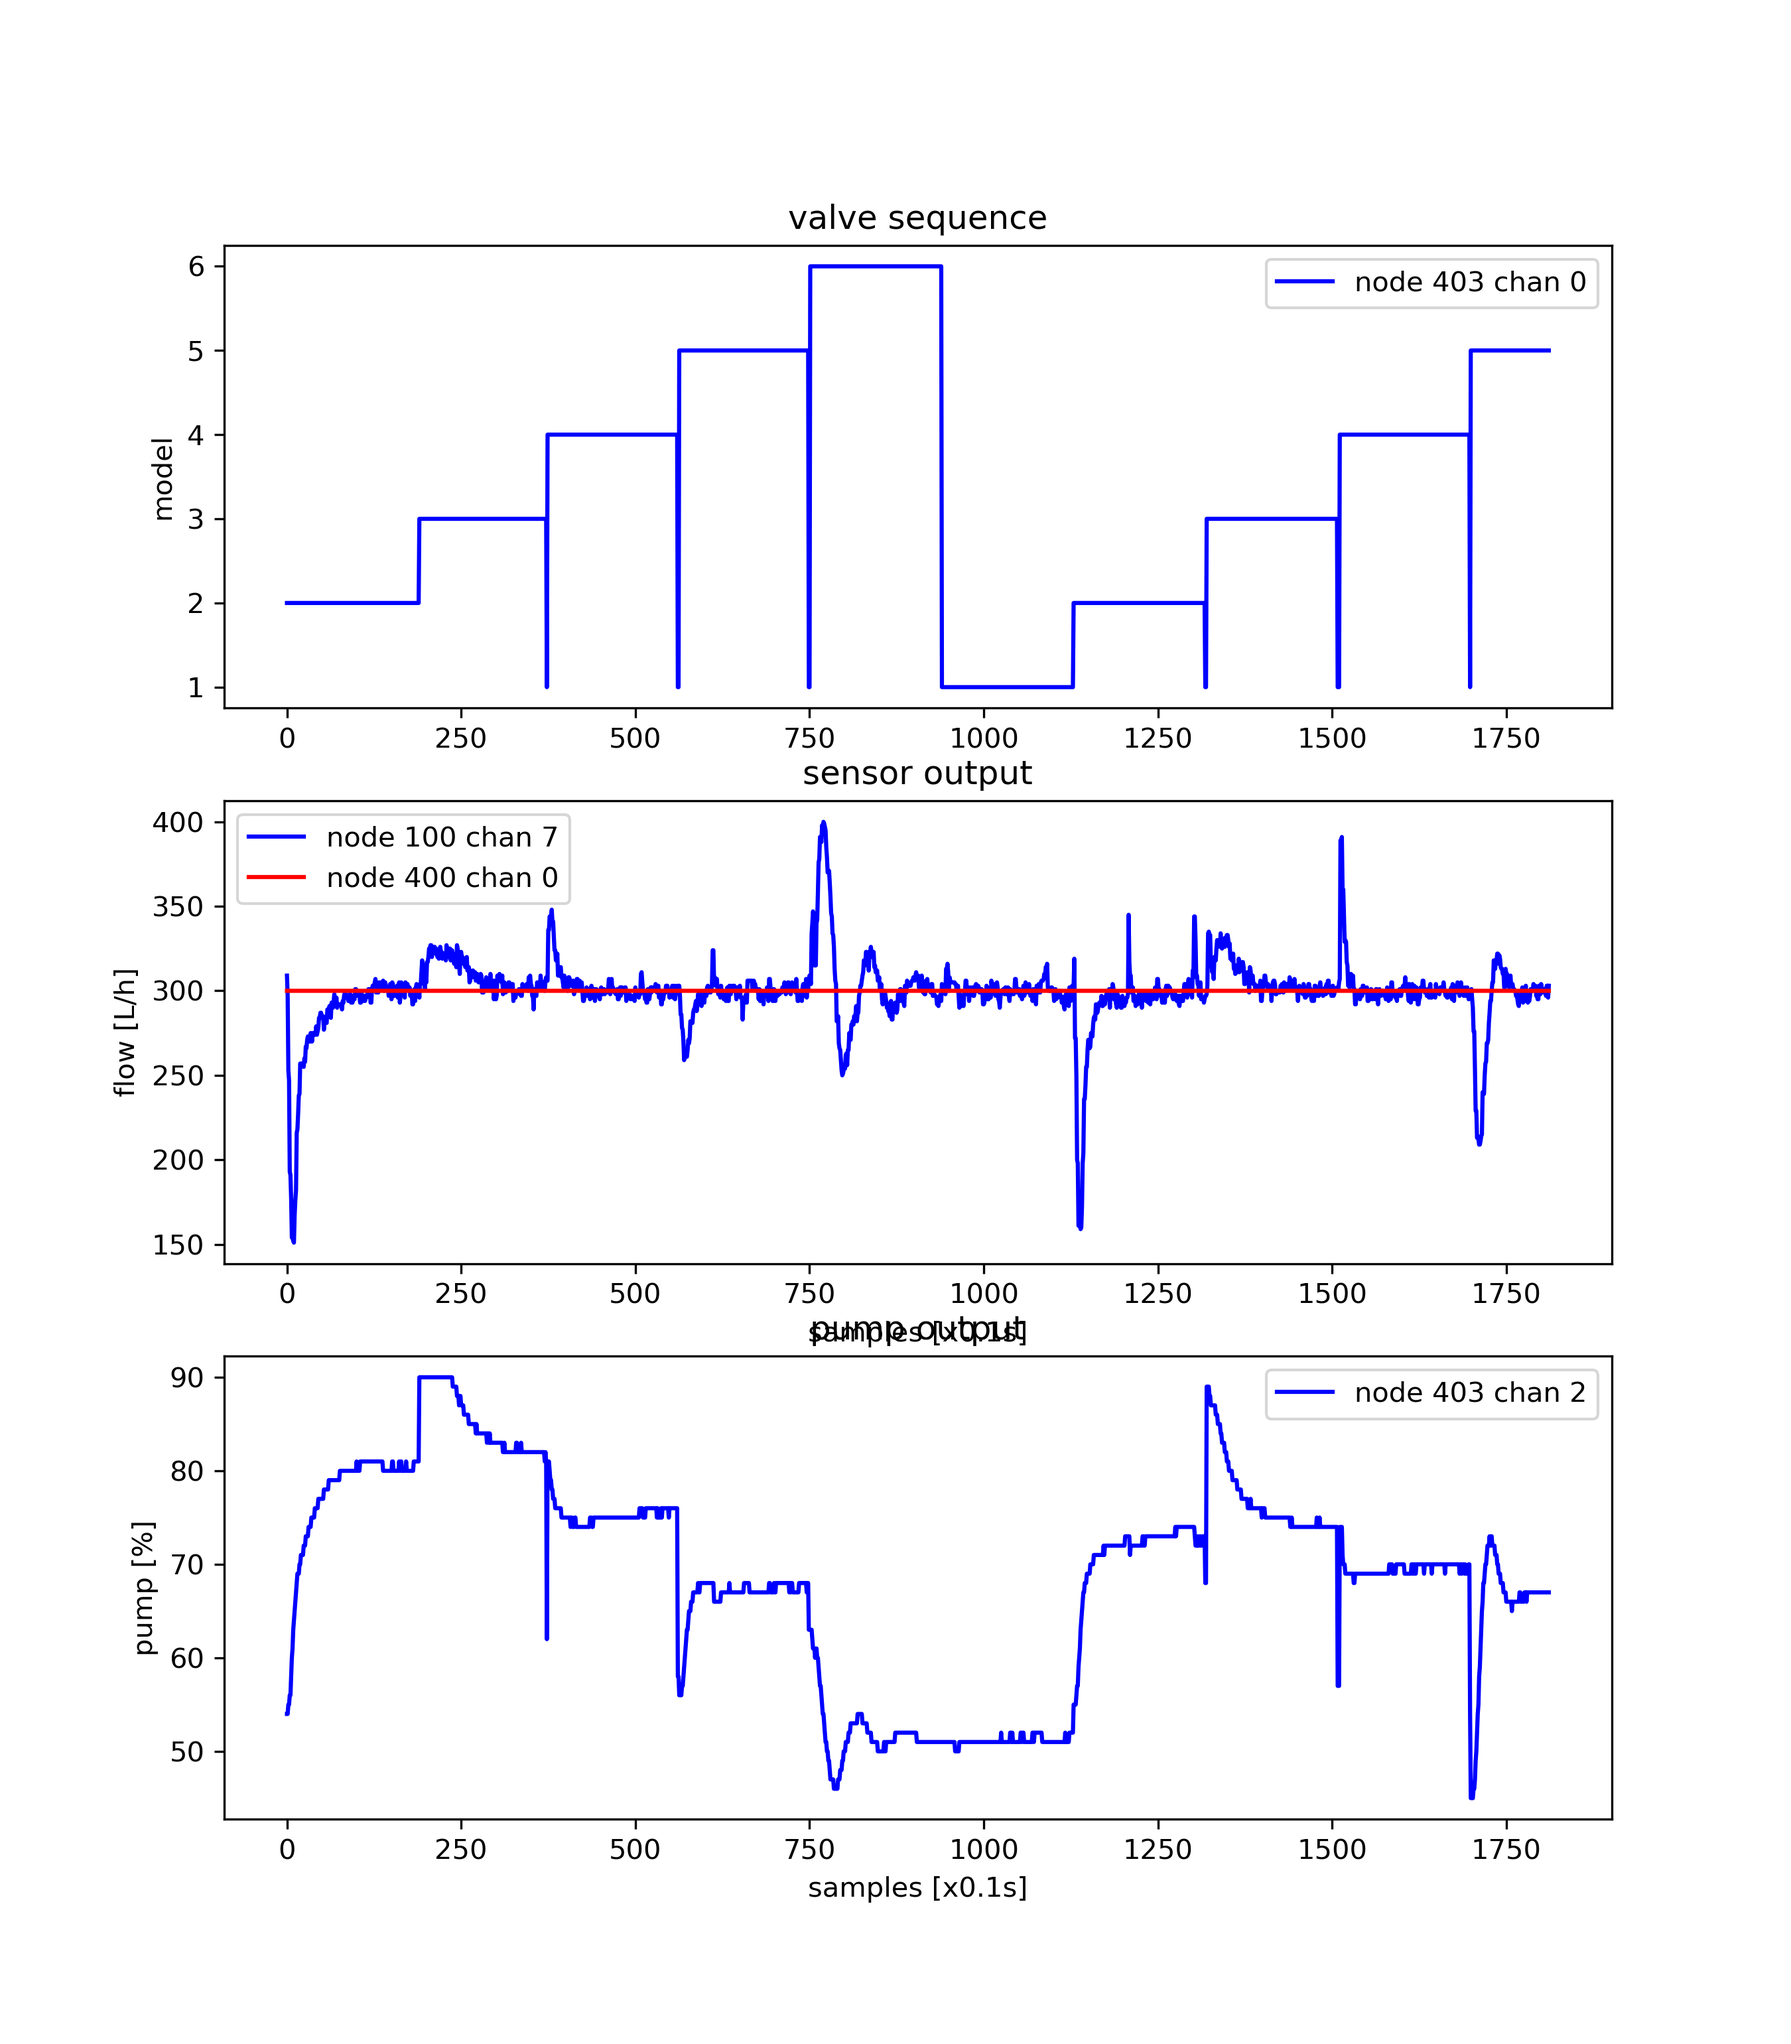
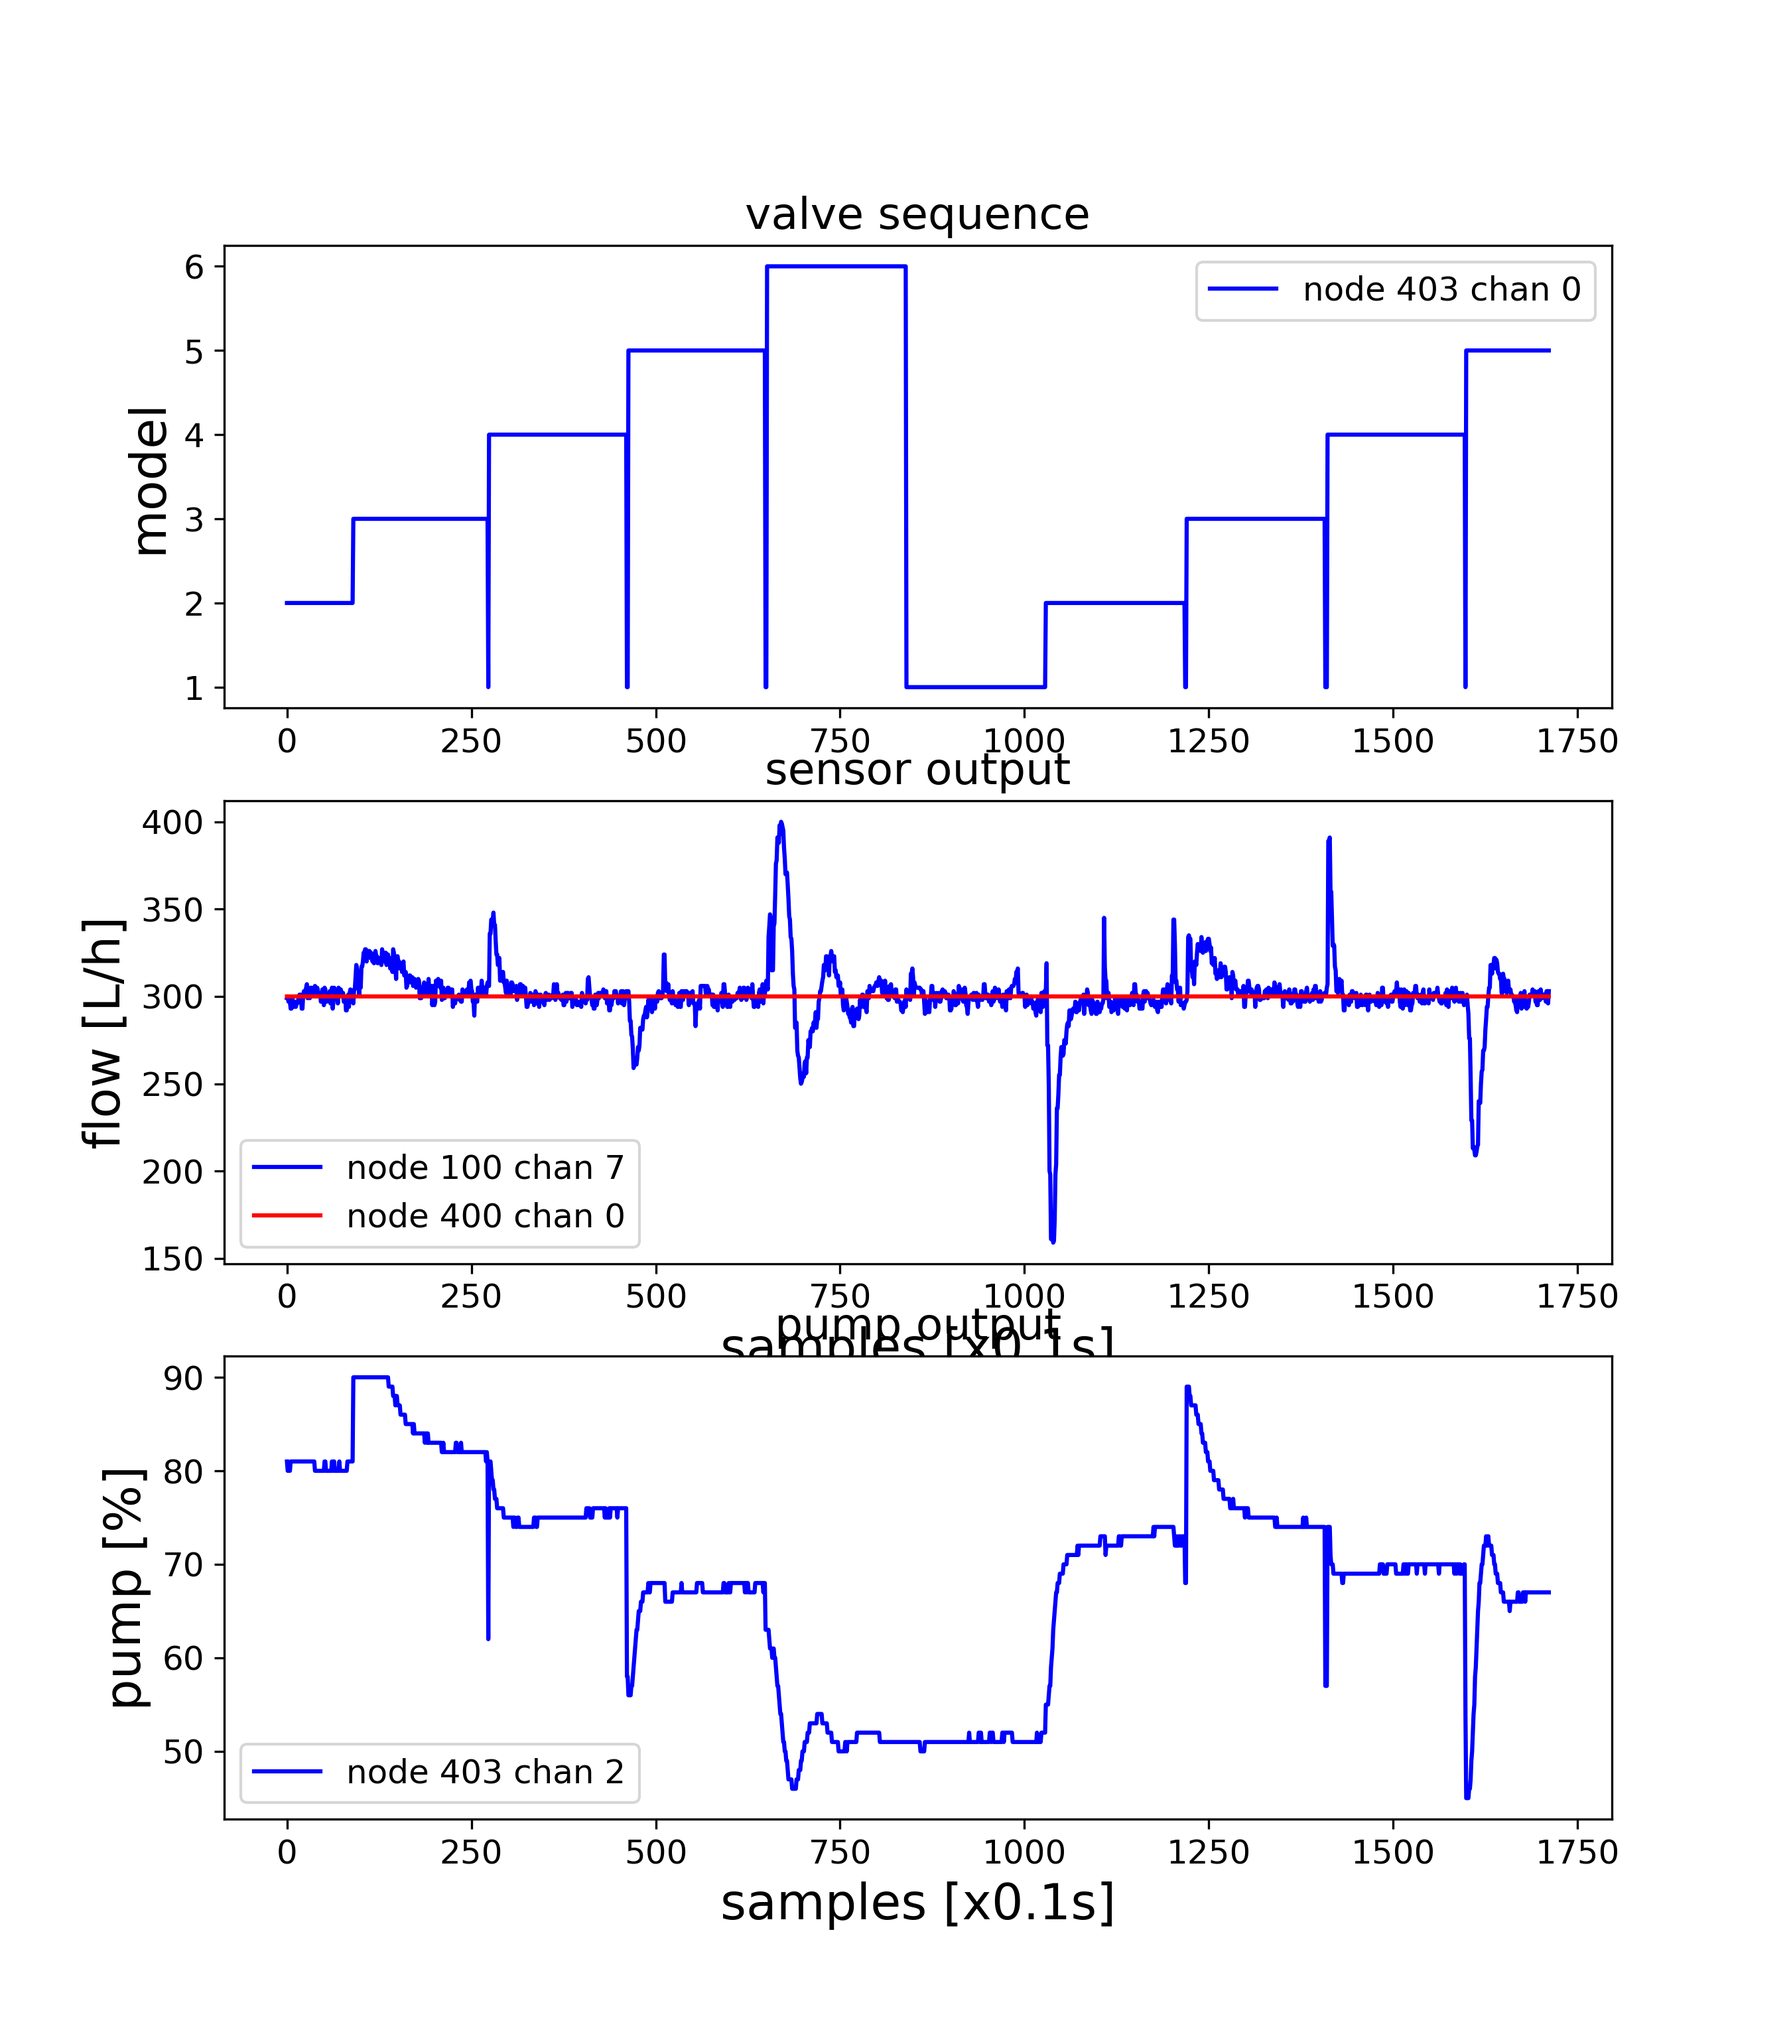
update control eval

diff --git a/show_data_chart_control.py b/show_data_chart_control.py
@@ -42,13 +42,14 @@ def remove_outliers(data):
     rows = sdata[0]
     cols = sdata[1]
 
-    for j in range(cols):   
+    for j in range(cols):
         for i in range(rows):
             if i > 1:
                 if data[i][j] > 1200:
                     data[i][j] = data[i-1][j]
 
     return data
+
 
 def reorder(x, order):
     x_ord = []
@@ -57,6 +58,7 @@ def reorder(x, order):
         x_ord.append(x[ord])
 
     return np.array(x_ord)
+
 
 def reorder2d(x, order):
     sdata = np.shape(x)
@@ -67,16 +69,17 @@ def reorder2d(x, order):
     for i in range(rows):
         new_row = []
         for (j, ord) in enumerate(order):
-            new_row.append(x[i,ord])
+            new_row.append(x[i, ord])
         x_ord.append(new_row)
-        
+
     return np.array(x_ord)
+
 
 def create_timeseries(data, header):
     tss: List[Timeseries] = []
     colors = ['blue', 'red', 'green', 'orange']
     # colors = ['Red', 'Orange', 'Yellow', 'Green', 'Blue', 'Indigo']
-    
+
     ck = 0
 
     sdata = np.shape(data)
@@ -93,28 +96,64 @@ def create_timeseries(data, header):
         ck += 1
         if ck >= len(colors):
             ck = 0
-        
+
         for i in range(rows):
             ts.x.append(i)
             ts.y.append(data[i][j])
 
         tss.append(ts)
         ts = None
-        
+
     return tss
 
-def order_data(data, header, order):
 
+def order_data(data, header, order):
     header1 = reorder(header, order)
     data1 = reorder2d(data, order)
-
     return data1, header1
+
+
+def get_flow_metrics(data2):
+    err = [abs(e[0] - e[1]) for e in data2]
+    mean = np.mean([e[0] for e in data2])
+    stdev = np.std(err)
+    # print(mean, stdev)
+    return mean, stdev
+
+
+def get_control_metrics(data3):
+    d = [e[0] for e in data3]
+    mean = np.mean(d)
+    stdev = np.std(d)
+    # print(mean, stdev)
+    return mean, stdev
+
+
+def split_data_bookmarks(data):
+    bookmarks = []
+    b1 = data[0]
+    i1 = 0
+    for i, d in enumerate(data):
+        if d != b1 and i > 0:
+            b1 = data[i-1]
+            i2 = i-1
+            if i1 != i2:
+                bookmarks.append([i1, i2])
+            i1 = i
+    return bookmarks
+
+def run_multiple_bookmarks(data, bm, fn):
+    res = []
+    for b in bm:
+        d = data[b[0]:b[1]]
+        res.append(fn(d))
+    return res
 
 # create separate models for each data file
 for filename in filenames:
     data_file = root_data_folder + "/" + filename + ".csv"
     data, header = loader.load_dataset_full_with_header(data_file)
-  
+
     print(header)
     print(len(header))
     for i, h in enumerate(header):
@@ -123,16 +162,16 @@ for filename in filenames:
     # order = [2,3,5,6,7,8,9,10,11,12,4]
     # order = [10, 20]
 
-    data = data[100:]
+    data = data[200:]
 
     # data1, header1 = order_data(data, header, range(14, 19))
     data1, header1 = order_data(data, header, [33])
     data2, header2 = order_data(data, header, [10, 20])
     data3, header3 = order_data(data, header, [35])
-    
+
     print(np.shape(data1))
     print(np.shape(data2))
-   
+
     # tss = create_timeseries(np.concatenate((x,y), axis=1), np.concatenate((xheader,yheader)))
 
     tss1 = create_timeseries(data1, header1)
@@ -141,24 +180,82 @@ for filename in filenames:
 
     tss2 = create_timeseries(data2, header2)
     tss3 = create_timeseries(data3, header3)
-    
+
     # print(json.dumps(acc, indent=2))
 
     # fig, _ = graph.plot_timeseries_multi(tss, "valve sequence", "samples [x0.1s]", "position [%]", False)
 
-    fig, _ = graph.plot_timeseries_multi_sub2([tss1, tss2, tss3], ["valve sequence", "sensor output", "pump output"], "samples [x0.1s]", ["model", "flow [L/h]", "pump [%]"])
+    gmean_flow, gstdev_flow = get_flow_metrics(data2)
+    print(gmean_flow, gstdev_flow)
+    gmean_pump, gstdev_pump = get_control_metrics(data3)
+    print(gmean_pump, gstdev_pump)
+    # print(data2)
+    bm = split_data_bookmarks(data1)
+    print(bm)
+    # quit()
+
+    header_aux = ["crt", "mean"]
+    res = run_multiple_bookmarks(data2, bm, get_flow_metrics)
+    res1 = [[e[0], gmean_flow] for e in res]
+    flow_mean_bm = [e[0] for e in res]
+    flow_min_bm = np.min(flow_mean_bm)
+    flow_max_bm = np.max(flow_mean_bm)
+    gmean_flow_bm = np.mean(flow_mean_bm)
+
+    print(flow_min_bm)
+    print(flow_max_bm)
+    print(gmean_flow_bm)
+    print(gmean_flow)
+
+    print(abs(flow_max_bm - gmean_flow_bm)/gmean_flow_bm * 100)
+    print(abs(flow_min_bm - gmean_flow_bm)/gmean_flow_bm * 100)
+
+    print(abs(flow_max_bm - gmean_flow)/gmean_flow * 100)
+    print(abs(flow_min_bm - gmean_flow)/gmean_flow * 100)
+
+
+    gstdev_pump_bm = np.mean(gstdev_pump)
+    print(gstdev_pump_bm)
+
+    # quit()
+
+
+    tss4 = create_timeseries(res1, header_aux)
+    res2 = [[e[1], gstdev_flow] for e in res]
+    tss5 = create_timeseries(res2, header_aux)
+
+    res = run_multiple_bookmarks(data3, bm, get_control_metrics)
+    res1 = [[e[0], gmean_pump] for e in res]
+    tss6 = create_timeseries(res1, header_aux)
+    res2 = [[e[1], gstdev_pump] for e in res]
+    tss7 = create_timeseries(res2, header_aux)
+
+    print("shape:")
+    print(np.shape(data2))
+    print(np.shape(res1))
+
+
+    # head = ["", "", "", ""]
+    # axhead = ["yk (avg)", "yk (stdev)", "uk (avg)", "uk (stdev)"]
+    # fig, _ = graph.plot_timeseries_multi_sub2([tss4, tss5, tss6, tss7], head, "samples [x0.1s]", axhead)
+
+
+    # quit()
+    fig, _ = graph.plot_timeseries_multi_sub2([tss1, tss2, tss3], [
+                                              "valve sequence", "sensor output", "pump output"], "samples [x0.1s]", ["model", "flow [L/h]", "pump [%]"])
+
+    # fig, _ = graph.plot_timeseries_multi_sub2([tss1, tss2, tss3, tss4, tss5], [
+    #                                           "valve sequence", "sensor output", "pump output", "mean", "stdev"], "samples [x0.1s]", ["model", "flow [L/h]", "pump [%]", "mean [L/h]", "stdev"])
+
 
     graph.save_figure(fig, "./figs/control" + filename)
 
     # x = remove_outliers(x)
     # tss = create_timeseries(x, xheader)
 
-  
     # fig, _ = graph.plot_timeseries_multi(tss, "sensor output", "samples [x0.1s]", "flow [L/h]", False)
 
     # graph.save_figure(fig, "./figs/sensor_output")
     # graph.plot_timeseries(ts, "title", "x", "y")
 
     # quit()
-
-    

diff --git a/modules/graph.py b/modules/graph.py
@@ -73,10 +73,11 @@ def plot_timeseries_multi_sub2(timeseries_arrays: List[List[Timeseries]], title,
             y = ts.y
 
             plt.plot(x, y, label=ts.label, color=ts.color)
-            if i == 0:
-                set_disp(title[i], "", ylabel[i])
-            else:
+            if i > 0:
                 set_disp(title[i], xlabel, ylabel[i])
+            else:
+                set_disp(title[i], "", ylabel[i])
+                
             plt.legend()
 
     # ax.tick_params(axis = 'both', which = 'major', labelsize = FSIZE_LABEL_XS)
